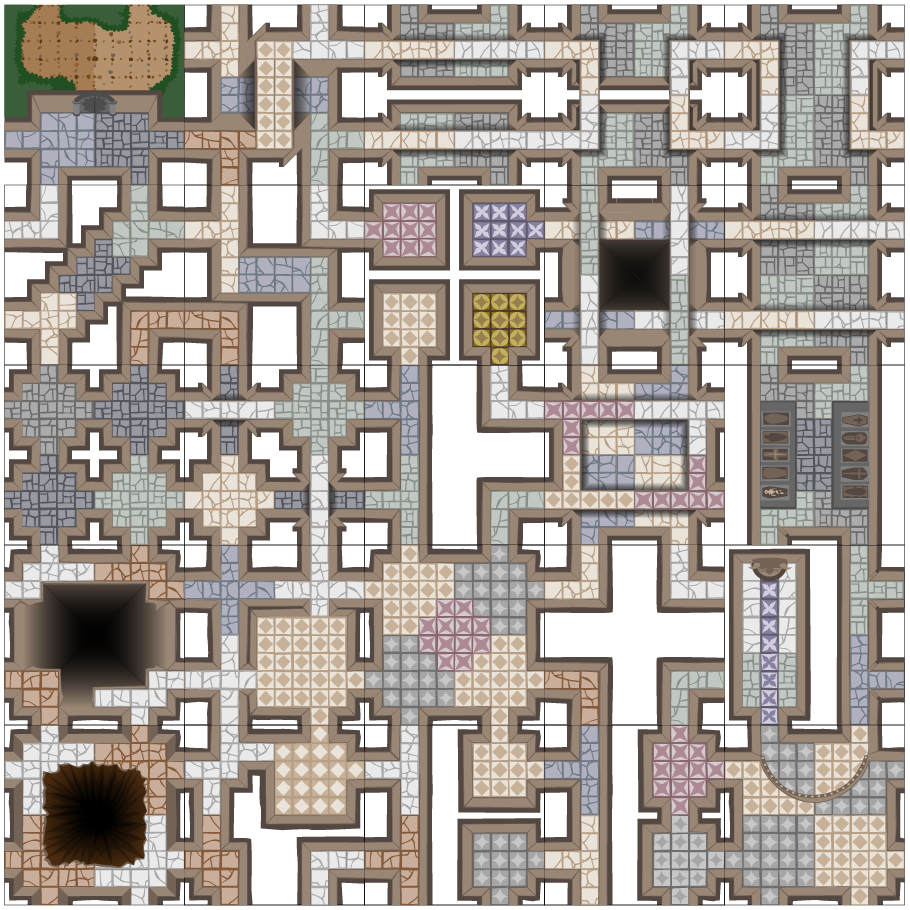
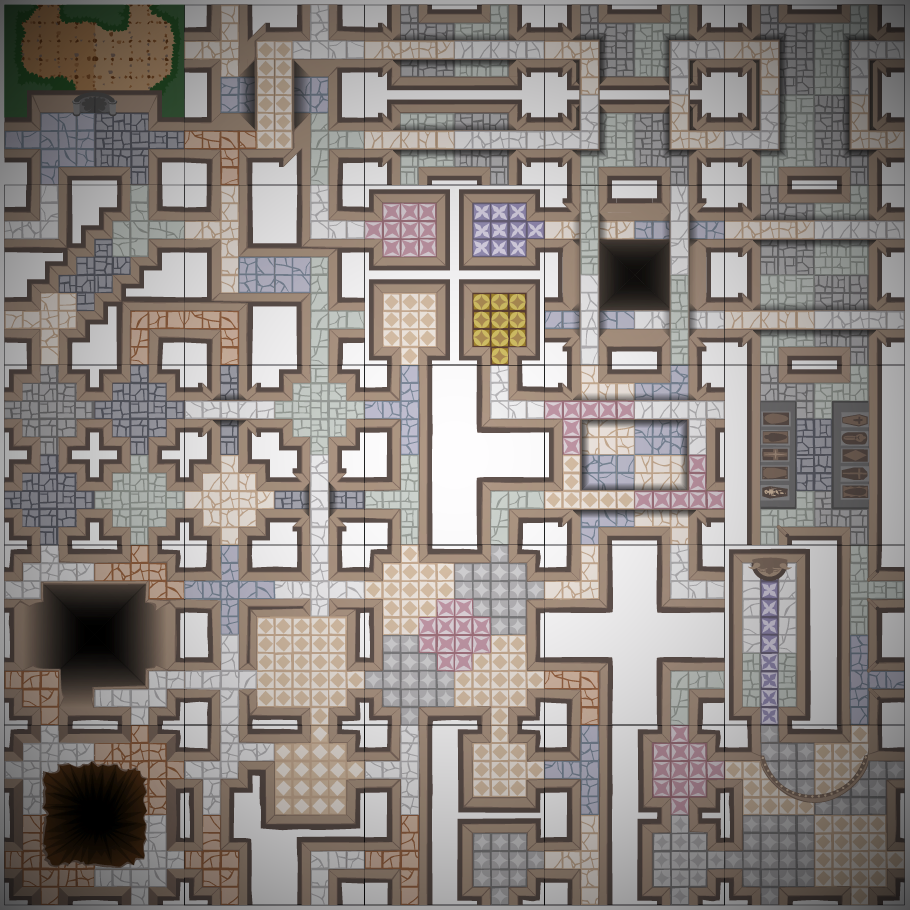
a dressed up map
changed basically the whole map except the layout.  changed the wall
picture, floor tile pictures, added blood spots and some pentagrams.
Will add more tomorrow before class.

diff --git a/game.js b/game.js
@@ -591,6 +591,24 @@ function Inventory(game){
     this.items = [];
 }
 
+function Furnishing(game, x, y) {
+    this.type = "wall";
+    this.boundingbox = new BoundingBox(x, y, 40, 40);
+
+    Entity.call(this, game, x, y); // assigns x y and the game for us.
+}
+
+Furnishing.prototype = new Entity();
+Furnishing.prototype.constructor = Furnishing;
+
+Furnishing.prototype.draw = function (ctx) {
+    ctx.drawImage(ASSET_MANAGER.getAsset("./img/floor.png"), 128, 128,
+    30, 30, this.x - this.game.screenDims.x, this.y - this.game.screenDims.y, 40, 40)
+    ctx.strokeStyle = "green";
+    ctx.strokeRect(this.boundingbox.left - this.game.screenDims.x, this.boundingbox.top - this.game.screenDims.y, this.
+        boundingbox.width, this.boundingbox.height);
+}
+
 function Wall(game, x, y){
     this.game = game;
     this.x = x;
@@ -604,8 +622,8 @@ Wall.prototype = new Entity();
 Wall.prototype.constructor = Wall;
 
 Wall.prototype.draw = function(ctx){
-    ctx.drawImage(ASSET_MANAGER.getAsset("./img/tileset_base.png"),128, 128, 
-    30, 30, this.x - this.game.screenDims.x, this.y - this.game.screenDims.y, 40, 40)
+    ctx.drawImage(ASSET_MANAGER.getAsset("./img/miscItems2.png"), 130, 415, // 600, 240,  // pit for walls  160, 480
+    30, 65, this.x - this.game.screenDims.x, this.y - this.game.screenDims.y - 20, 40, 65)
         ctx.strokeStyle = "green";
         ctx.strokeRect(this.boundingbox.left - this.game.screenDims.x, this.boundingbox.top - this.game.screenDims.y, this.
             boundingbox.width, this.boundingbox.height);
@@ -642,13 +660,13 @@ function Wulf (game) {
     this.forwardAnimation = new Animation(ASSET_MANAGER.getAsset("./img/Wulf.png"), 0, 142, 32, 49, 0.2, 4, true, false);
     this.lastAnimation = this.forwardAnimation;
     this.moving = false;
-    this.centerX = 0;
-    this.centerY = 0;
+    this.centerX = 40;
+    this.centerY = 10;
     this.boundingbox = new BoundingBox(this.centerX, this.centerY, 25, 50);
     this.inventory = new Inventory(game);
     this.type = "player";
     this.health = 10;
-    Entity.call(this, game, 0, 0);
+    Entity.call(this, game, 40, 10);
     
 }
 Wulf.prototype = new Entity();
@@ -807,7 +825,6 @@ BoundingBox.prototype.collide = function (oth) {
 }
 
 function GameBoard(game) {
-
     Entity.call(this, game, 0, 0);
 }
 
@@ -823,11 +840,36 @@ GameBoard.prototype.update = function () {
 // draws the game board
 GameBoard.prototype.draw = function (ctx) {
 
-	for (var i = 0; i < 20; i++) {
-            for (var j = 0; j < 20; j++) {
-		ctx.drawImage(ASSET_MANAGER.getAsset("./img/tileset_base.png"),0, 0, 30, 30, i * 40, j * 40, 40, 40);
-            }
+	for (var i = 0; i < 3; i++) { for (var j = 0; j < 3; j++) {
+         ctx.drawImage(ASSET_MANAGER.getAsset("./img/floor.png"), 385, 565, 140, 140, i * 320 - this.game.screenDims.x, j * 320 - this.game.screenDims.y, 320, 320);
+        }
 	}
+
+    // blood spots
+	ctx.drawImage(ASSET_MANAGER.getAsset("./img/miscItems3.png"), 0, 80, 35, 70, 160 - this.game.screenDims.x, 320 - this.game.screenDims.y, 35, 80);
+	ctx.drawImage(ASSET_MANAGER.getAsset("./img/miscItems3.png"), 0, 80, 35, 70, 400 - this.game.screenDims.x, 440 - this.game.screenDims.y, 35, 80);
+	ctx.drawImage(ASSET_MANAGER.getAsset("./img/miscItems3.png"), 0, 80, 35, 70, 25 - this.game.screenDims.x, 520 - this.game.screenDims.y, 35, 80);
+	ctx.drawImage(ASSET_MANAGER.getAsset("./img/miscItems3.png"), 0, 80, 35, 70, 540 - this.game.screenDims.x, 280 - this.game.screenDims.y, 35, 80);
+	ctx.drawImage(ASSET_MANAGER.getAsset("./img/miscItems3.png"), 0, 80, 35, 70, 150 - this.game.screenDims.x, 720 - this.game.screenDims.y, 35, 80);
+	ctx.drawImage(ASSET_MANAGER.getAsset("./img/miscItems3.png"), 0, 80, 35, 70, 600 - this.game.screenDims.x, 720 - this.game.screenDims.y, 35, 80);
+
+	ctx.drawImage(ASSET_MANAGER.getAsset("./img/miscItems3.png"), 35, 80, 70, 70, 80 - this.game.screenDims.x, 200 - this.game.screenDims.y, 35, 80);
+	ctx.drawImage(ASSET_MANAGER.getAsset("./img/miscItems3.png"), 35, 80, 70, 70, 300 - this.game.screenDims.x, 20 - this.game.screenDims.y, 35, 80);
+	ctx.drawImage(ASSET_MANAGER.getAsset("./img/miscItems3.png"), 35, 80, 70, 70, 700 - this.game.screenDims.x, 85 - this.game.screenDims.y, 35, 80);
+	ctx.drawImage(ASSET_MANAGER.getAsset("./img/miscItems3.png"), 35, 80, 70, 70, 360 - this.game.screenDims.x, 560 - this.game.screenDims.y, 35, 80);
+	ctx.drawImage(ASSET_MANAGER.getAsset("./img/miscItems3.png"), 35, 80, 70, 70, 590 - this.game.screenDims.x, 650 - this.game.screenDims.y, 35, 80);
+
+    // pentagrams
+	ctx.drawImage(ASSET_MANAGER.getAsset("./img/miscItems2.png"), 320, 290, 95, 95, 5 - this.game.screenDims.x, 5 - this.game.screenDims.y, 95, 95);
+	ctx.drawImage(ASSET_MANAGER.getAsset("./img/miscItems2.png"), 415, 290, 95, 95, 650 - this.game.screenDims.x, 600 - this.game.screenDims.y, 95, 95);
+
+    // bones
+	ctx.drawImage(ASSET_MANAGER.getAsset("./img/miscItems2.png"), 0, 450, 65, 60, 100 - this.game.screenDims.x, 100 - this.game.screenDims.y, 65, 60);
+	ctx.drawImage(ASSET_MANAGER.getAsset("./img/miscItems2.png"), 0, 450, 65, 60, 350 - this.game.screenDims.x, 0 - this.game.screenDims.y, 65, 60);
+	ctx.drawImage(ASSET_MANAGER.getAsset("./img/miscItems2.png"), 0, 450, 65, 60, 520 - this.game.screenDims.x, 300 - this.game.screenDims.y, 65, 60);
+	ctx.drawImage(ASSET_MANAGER.getAsset("./img/miscItems2.png"), 0, 450, 65, 60, 80 - this.game.screenDims.x, 650 - this.game.screenDims.y, 65, 60);
+
+
 }
 
 // the "main" code begins here
@@ -836,7 +878,10 @@ var ASSET_MANAGER = new AssetManager();
 ASSET_MANAGER.queueDownload("./img/Wulf.png");
 ASSET_MANAGER.queueDownload("./img/tileset_base.png");
 ASSET_MANAGER.queueDownload("./img/frankenzombie.png");
-
+ASSET_MANAGER.queueDownload("./img/floor.png");
+ASSET_MANAGER.queueDownload("./img/floor_resize.png");
+ASSET_MANAGER.queueDownload("./img/miscItems3.png");
+ASSET_MANAGER.queueDownload("./img/miscItems2.png");
 
 ASSET_MANAGER.downloadAll(function () {
     console.log("starting up da sheild");
